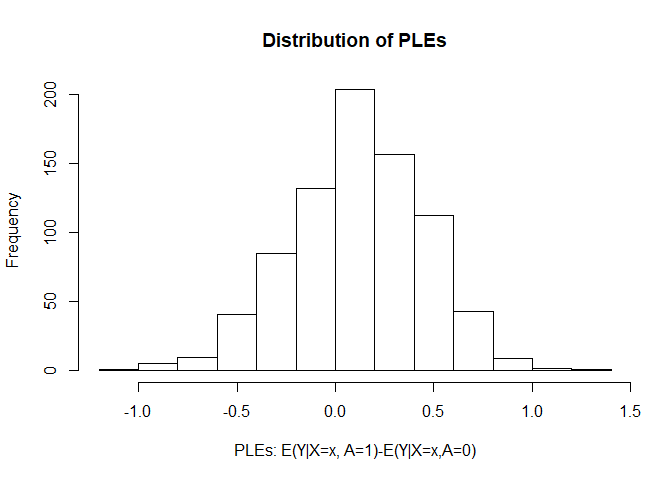
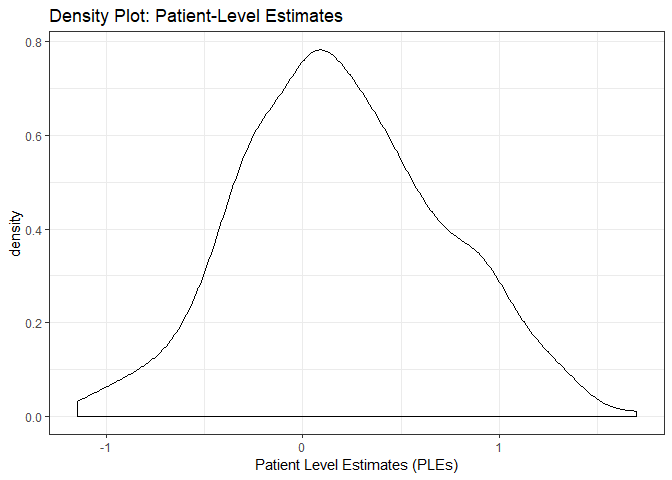
Updated examples

diff --git a/README.md b/README.md
@@ -56,33 +56,53 @@ res0 = PRISM(Y=Y, A=A, X=X)
 #> Subgroup Identification: submod_lmtree
 #> Parameter Estimation: param_ple
 ## Plot the distribution of PLEs ###
-hist(res0$mu_train$PLE, main="Distribution of PLEs",
-     xlab = "PLEs: E(Y|X=x, A=1)-E(Y|X=x,A=0)")
+plot(res0, type="PLE:density") # Density plot of PLEs #
 ```
 
 <img src="man/figures/README-example-1.png" width="100%" />
 
 ``` r
-## Plot of the subgroup model (lmtree) ##
-plot(res0$Sub.mod)
+plot(res0, type="PLE:waterfall") # waterfall plot of PLEs
 ```
 
 <img src="man/figures/README-example-2.png" width="100%" />
 
 ``` r
-## Overall/subgroup specific parameter estimates/inference
-res0$param.dat
-#>   Subgrps   N         est         SE          LCL       UCL       pval
-#> 1       0 800 0.119163550 0.06277086 -0.004051715 0.2423788 0.05800485
-#> 2       3  71 0.269953773 0.20845268 -0.145791990 0.6856995 0.19956283
-#> 3       5 303 0.001823749 0.10423555 -0.203296193 0.2069437 0.98605215
-#> 4       6 107 0.145690459 0.16108360 -0.173673450 0.4650544 0.36781312
-#> 5       8 221 0.124661570 0.11491806 -0.101819583 0.3511427 0.27920349
-#> 6       9  98 0.331351436 0.18714952 -0.040088556 0.7027914 0.07978260
-## Forest plot: Overall/subgroup specific parameter estimates (CIs)
-plot(res0)
+## Plot of the subgroup model (lmtree) ##
+plot(res0$submod.fit$mod)
 ```
 
 <img src="man/figures/README-example-3.png" width="100%" />
+
+``` r
+## Overall/subgroup specific parameter estimates/inference
+res0$param.dat
+#>   Subgrps   N       est         SE         LCL       UCL        pval
+#> 1       0 800 0.2002288 0.07625826  0.05053855 0.3499190 0.008813376
+#> 2       3 149 0.1639289 0.19134782 -0.21419779 0.5420557 0.392992087
+#> 3       4 277 0.1367610 0.11828108 -0.09608672 0.3696087 0.248583996
+#> 4       6 267 0.2207054 0.12863914 -0.03257507 0.4739859 0.087382447
+#> 5       7 107 0.3639856 0.23182371 -0.09562749 0.8235986 0.119373067
+## Forest plot: Overall/subgroup specific parameter estimates (CIs)
+plot(res0, type="forest")
+```
+
+<img src="man/figures/README-example-4.png" width="100%" />
+
+``` r
+
+## Heatmap of PLEs #
+grid.data = expand.grid(X1 = seq(min(X$X1), max(X$X1), by=0.30),
+                    X2 = seq(min(X$X2), max(X$X2), by=0.30))
+plot(res0, type="heatmap", grid.data = grid.data)
+#> $heatmap.est
+```
+
+<img src="man/figures/README-example-5.png" width="100%" />
+
+    #> 
+    #> $heatmap.prob
+
+<img src="man/figures/README-example-6.png" width="100%" />
 
 Overall, PRISM provides information at the patient-level, the subgroup-level (if any), and the overall population. While there are defaults in place, the user can also input their own functions/model wrappers into the PRISM algorithm. For more details and more examples, we refer the reader to the vignette, [PRISM\_vignette](https://cran.r-project.org/web/packages/StratifiedMedicine/vignettes/SM_PRISM.html).
